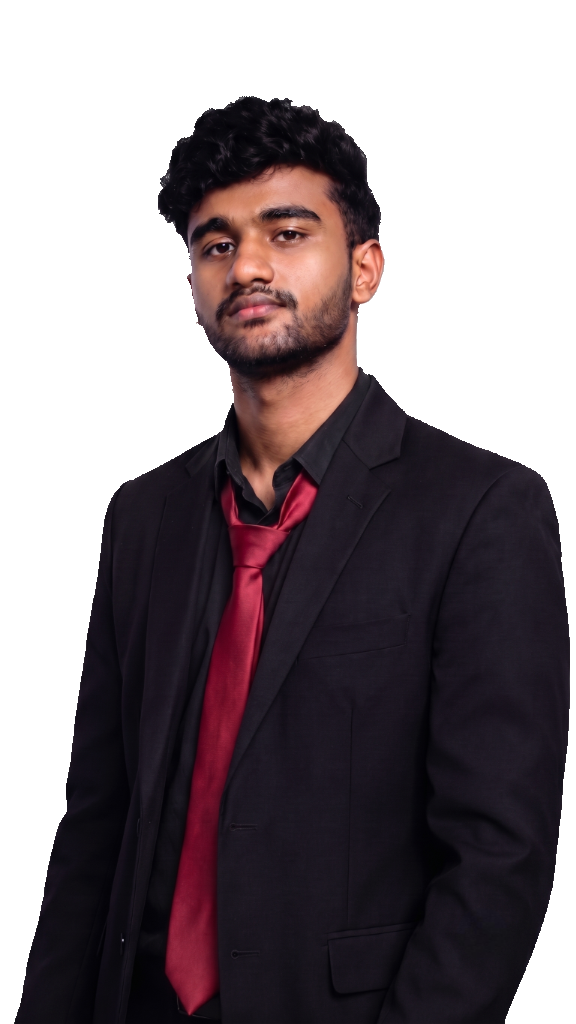
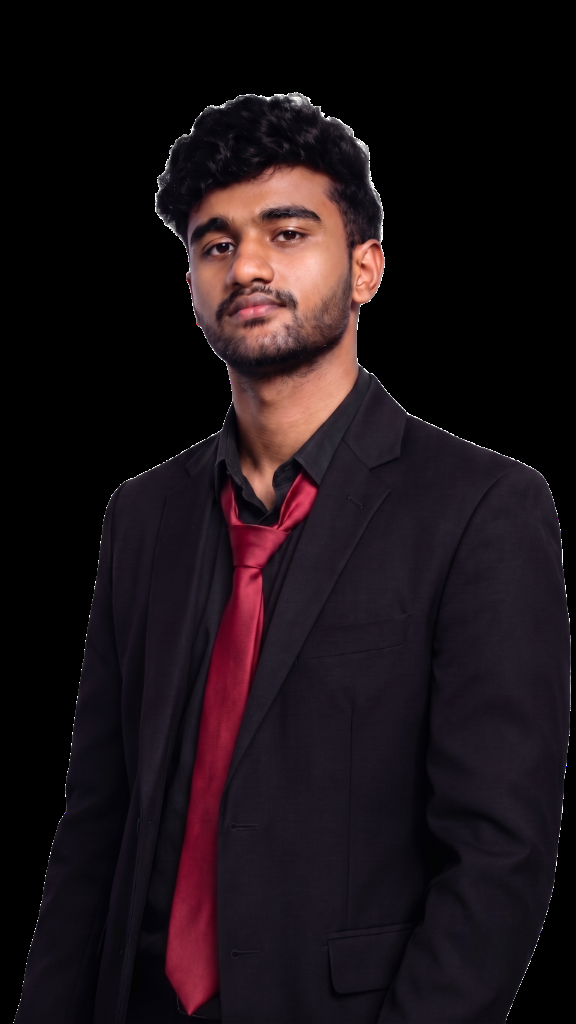
Match Rayhan Aditya Deep Crimson Red template design with clean clear studio cutout photo

diff --git a/style.css b/style.css
@@ -11,11 +11,11 @@
 :root {
   --bg-dark: #0A0A0A;
   --bg-card: #121212;
-  --bg-card-hover: #1A1812;
-  --card-border: #2B2518;
-  --primary-accent: #F59E0B; /* Vibrant Amber Gold Yellow Accent */
-  --primary-accent-dark: #D97706;
-  --hover-accent: #FCD34D;
+  --bg-card-hover: #1A1212;
+  --card-border: #2B1818;
+  --primary-accent: #EF4444; /* Deep Crimson Red Accent */
+  --primary-accent-dark: #DC2626;
+  --hover-accent: #F87171;
   --text-primary: #FFFFFF;
   --text-secondary: #9CA3AF;
   --text-muted: #6B7280;
@@ -286,7 +286,7 @@ img {
   font-family: var(--font-heading);
   font-size: 15rem;
   font-weight: 800;
-  color: #1F190B;
+  color: #1F0B0B;
   letter-spacing: 15px;
   text-transform: uppercase;
   white-space: nowrap;
@@ -633,8 +633,8 @@ img {
 
 /* Quote Sidebar Box */
 .quote-sidebar-box {
-  background-color: #1A140B;
-  border: 1px solid rgba(245, 158, 11, 0.35);
+  background-color: #1A0808;
+  border: 1px solid rgba(239, 68, 68, 0.35);
   border-radius: var(--border-radius);
   padding: 30px;
   display: flex;
@@ -671,7 +671,7 @@ img {
   letter-spacing: 2px;
   color: var(--text-secondary);
   margin-top: 25px;
-  border-top: 1px solid rgba(245, 158, 11, 0.2);
+  border-top: 1px solid rgba(239, 68, 68, 0.2);
   padding-top: 15px;
 }
 
@@ -730,7 +730,7 @@ img {
   width: 40px;
   height: 40px;
   border-radius: 50%;
-  background-color: rgba(245, 158, 11, 0.12);
+  background-color: rgba(239, 68, 68, 0.12);
   color: var(--primary-accent);
   display: flex;
   align-items: center;

diff --git a/index.html b/index.html
@@ -6,7 +6,7 @@
   
   <!-- Primary Meta Tags -->
   <title>SREESHNU S A | Aspiring Data Analyst & AI Student</title>
-  <meta name="title" content="SREESHNU S A | Aspiring Data Analyst & AI Student">
+  <meta name="title" content="SREESHNU S A | Aspiring Data Analyst">
   <meta name="description" content="Personal Portfolio of Sreeshnu S A - AI & Data Science Student focused on practical data analytics, machine learning, and business insights.">
   <meta name="author" content="SREESHNU S A">
 
